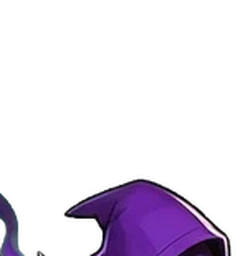
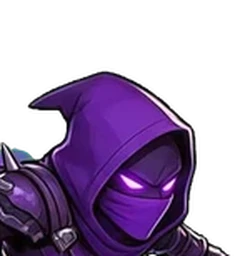
녹스 얼굴 그림을 전신 그림에서 다시 잘라 넣음(두건 아래만 보이던 것)
Claude-Session: https://claude.ai/code/session_015SiUYky4pgBh4AxMeSiCQn

diff --git a/index.html b/index.html
@@ -770,7 +770,7 @@
     <!-- 11-14 17:55 「그림 비교 ①②③④」 시험 단추 지움: ③ 예전 개선 + 영상 장면으로 정함(16:30). 시험할 땐 주소에 ?style=2d 처럼 -->
     <button id="reraise"></button>
     <div id="testbar"></div>
-    <div id="ver">판 11-15 15:50</div>
+    <div id="ver">판 11-15 16:00</div>
   </div>
   <div id="grip"><i></i></div>
   <div id="skillbar"><button id="raiseBtn"></button><div id="slots"></div><button id="cast"></button></div>
@@ -784,19 +784,19 @@
 </div>
 <div id="modal"><div class="box"></div></div>
 <script>window.BUILD = '1115102811';</script>   <!-- 11-14 18:12 대표님 「바뀐 새 버전 줘, 저장된 거 주지 말고 첫 시작」: 판마다 저장 이름이 달라 새 판은 늘 1-1부터 -->
-<script src="lang_ko.js?v=1794725438"></script>
-<script src="balance.js?v=1794725438"></script>
-<script src="logic.js?v=1794725438"></script>
-<script src="js/base.js?v=1794725438"></script>
-<script src="js/sound.js?v=1794725438"></script>
-<script src="js/art.js?v=1794725438"></script>
-<script src="js/draw.js?v=1794725438"></script>
-<script src="js/director.js?v=1794725438"></script>
-<script src="js/field.js?v=1794725438"></script>
-<script src="js/ui.js?v=1794725438"></script>
-<script src="js/extra.js?v=1794725438"></script>
-<script src="js/social.js?v=1794725438"></script>
-<script src="js/legal.js?v=1794725438"></script>
-<script src="js/main.js?v=1794725438"></script>
+<script src="lang_ko.js?v=1794726003"></script>
+<script src="balance.js?v=1794726003"></script>
+<script src="logic.js?v=1794726003"></script>
+<script src="js/base.js?v=1794726003"></script>
+<script src="js/sound.js?v=1794726003"></script>
+<script src="js/art.js?v=1794726003"></script>
+<script src="js/draw.js?v=1794726003"></script>
+<script src="js/director.js?v=1794726003"></script>
+<script src="js/field.js?v=1794726003"></script>
+<script src="js/ui.js?v=1794726003"></script>
+<script src="js/extra.js?v=1794726003"></script>
+<script src="js/social.js?v=1794726003"></script>
+<script src="js/legal.js?v=1794726003"></script>
+<script src="js/main.js?v=1794726003"></script>
 </body>
 </html>
